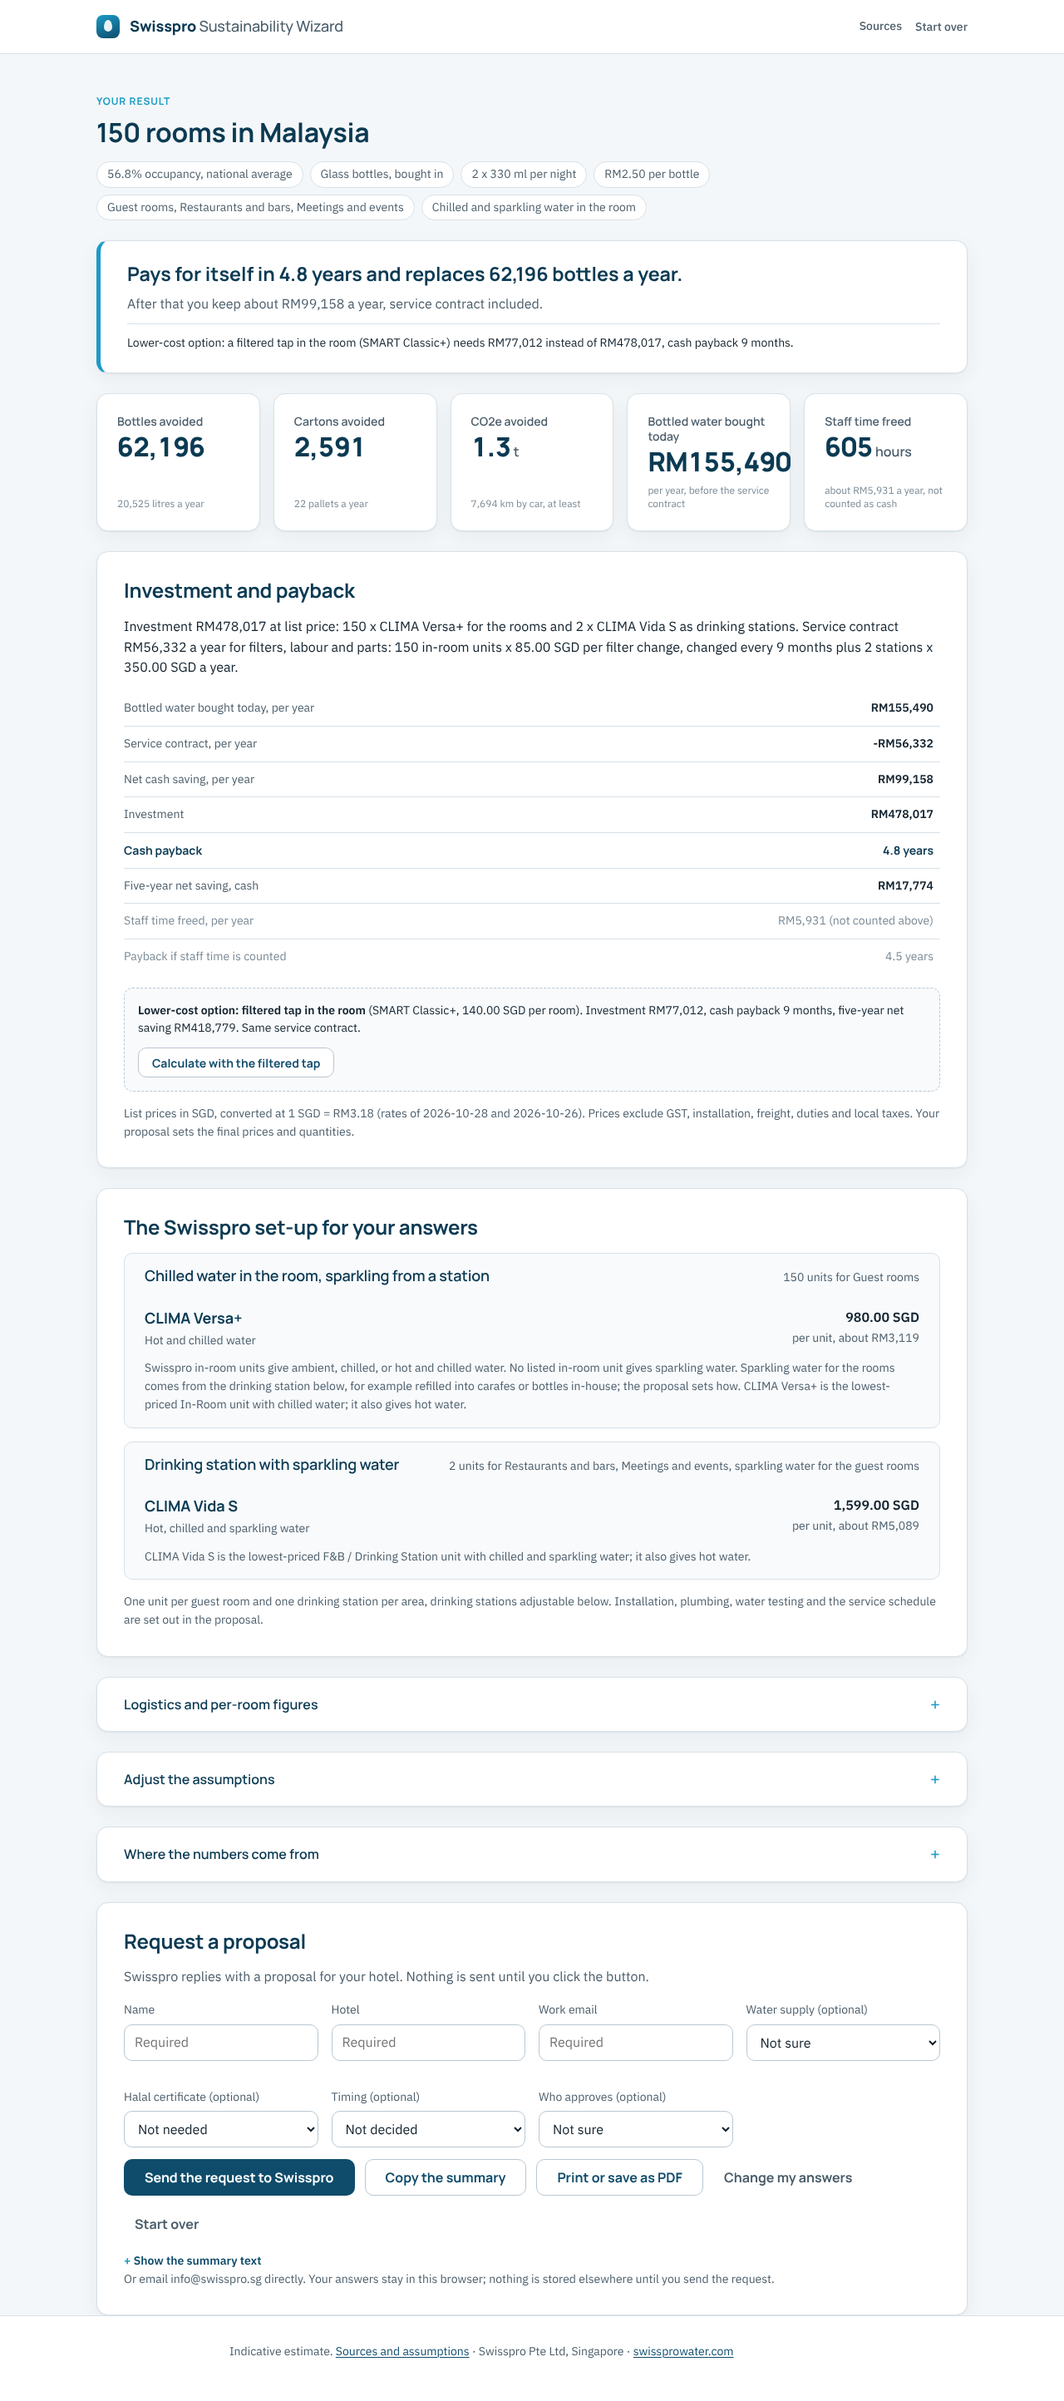
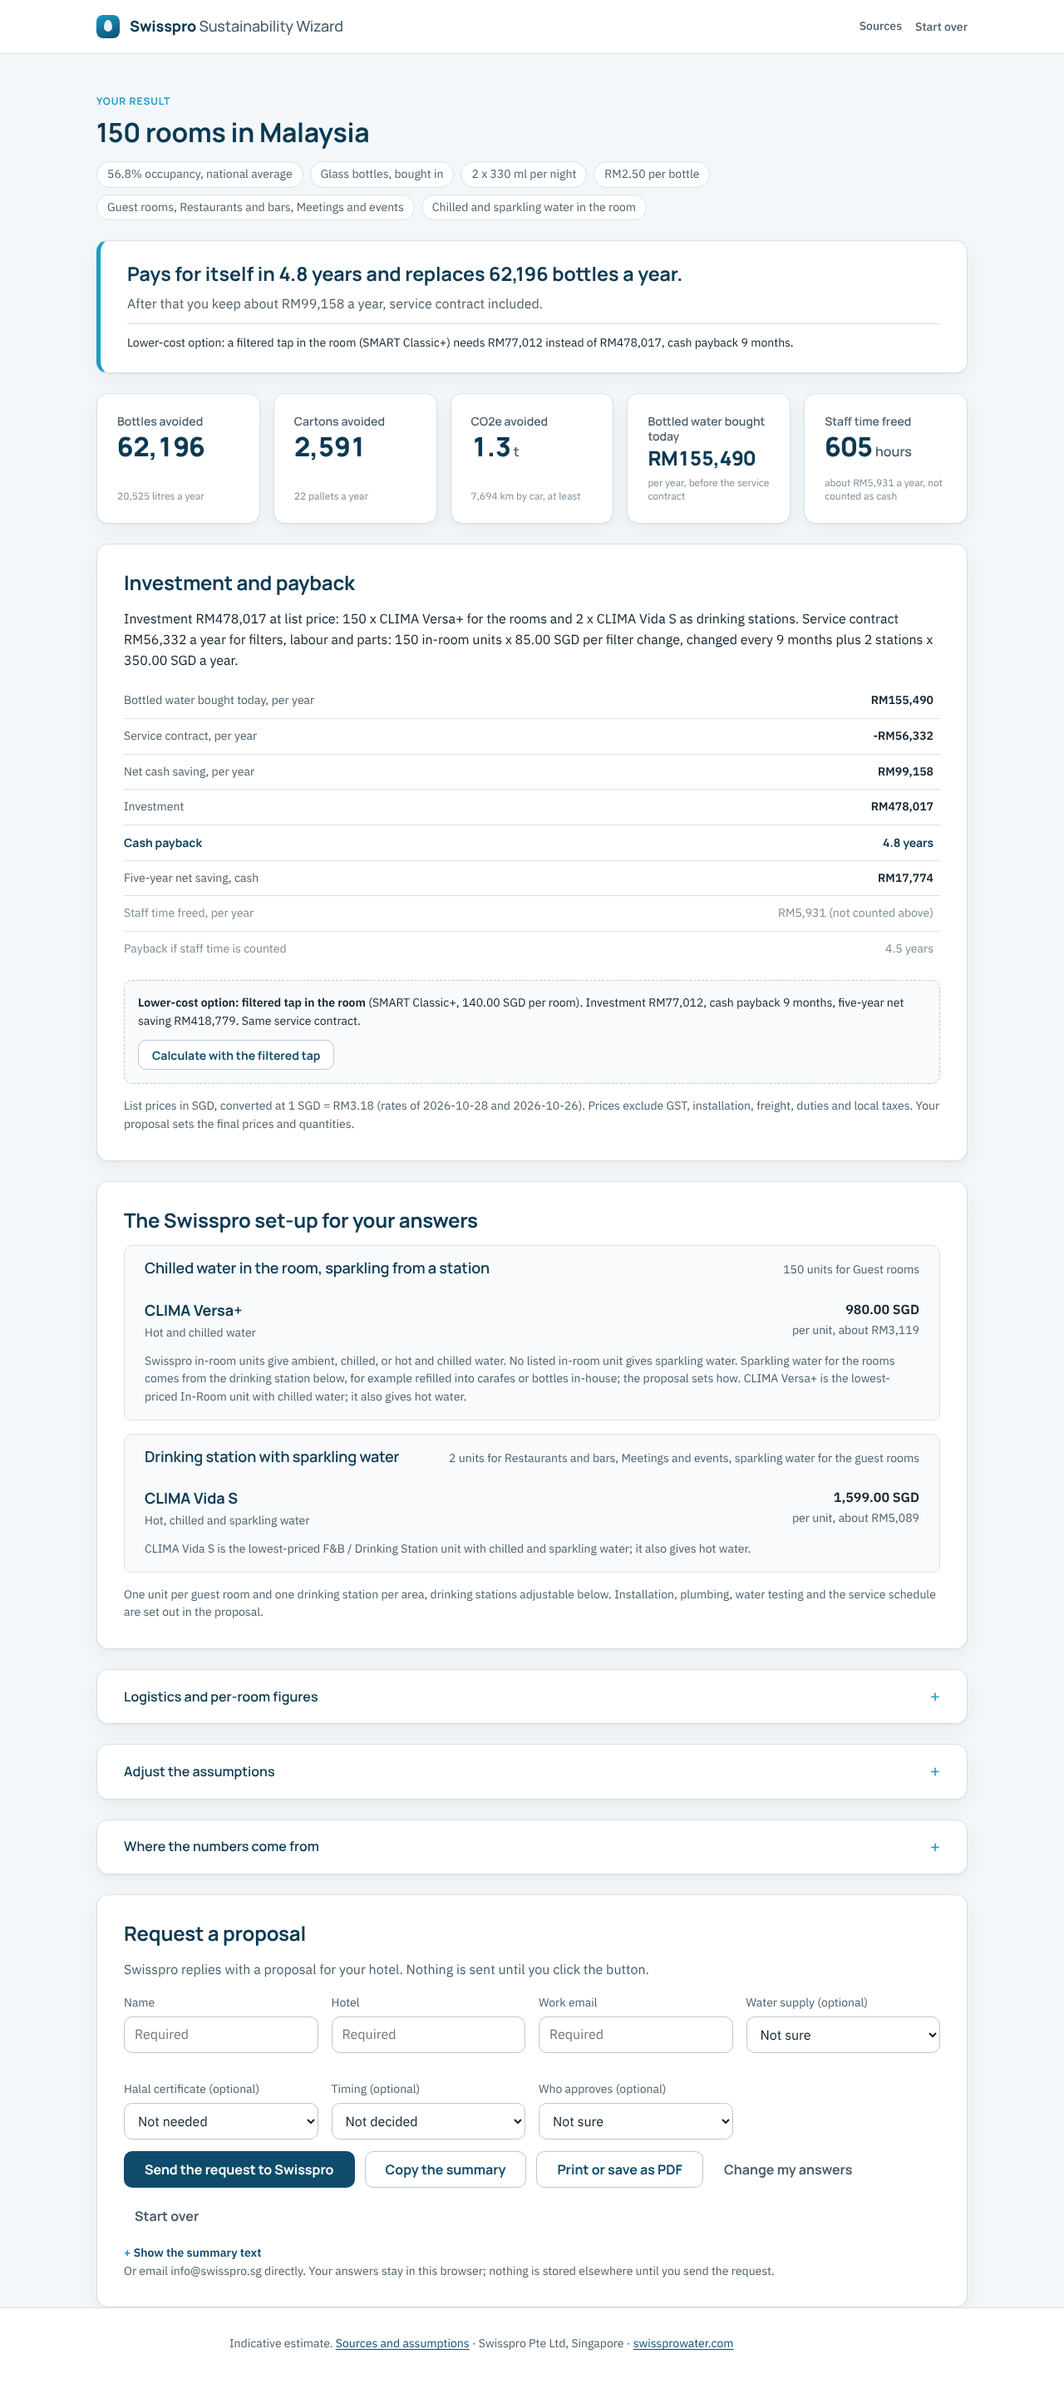
Tile width, products table widths, refill hint for sparkling; changelog
Claude-Session: https://claude.ai/code/session_01APodsUFWSb661S1TCdvVpy

diff --git a/artifact/sources.html b/artifact/sources.html
@@ -180,7 +180,7 @@ details.inline[open] > summary::before { content: "\2013 "; }
 .tile { display: grid; grid-template-rows: auto auto 1fr; align-content: start; gap: var(--s-1); background: var(--surface); border: 1px solid var(--line); border-radius: var(--radius-lg); padding: var(--s-5); box-shadow: var(--shadow); min-width: 0; }
 .tile .label { font-family: var(--font-display); font-weight: 600; font-size: var(--fs-sm); color: var(--ink-2); line-height: 1.3; }
 .tile .value { font-family: var(--font-display); font-size: var(--fs-2xl); font-weight: 800; color: var(--brand-700); line-height: 1.1; font-variant-numeric: tabular-nums; letter-spacing: -0.02em; white-space: nowrap; }
-.tile .value-long { font-size: 1.45rem; }
+.tile .value-long { font-size: 1.5rem; }
 .tile .unit { font-size: var(--fs-md); font-weight: 600; color: var(--ink-2); letter-spacing: 0; }
 .tile .sub { font-size: var(--fs-xs); color: var(--ink-3); line-height: 1.35; align-self: end; padding-top: var(--s-1); }
 .tile .basis { display: flex; flex-wrap: wrap; gap: var(--s-1); align-self: end; padding-top: var(--s-3); }
@@ -237,6 +237,9 @@ details.fine summary { font-weight: 600; }
 .factor blockquote { margin: var(--s-2) 0; padding-left: var(--s-3); border-left: 3px solid var(--accent-200); color: var(--ink-2); font-size: var(--fs-sm); }
 .factor p { margin-top: var(--s-2); }
 .card table.kv th, .card table.kv td { font-size: var(--fs-sm); white-space: normal; padding-right: 8px; }
+table.products th:first-child { width: 28%; }
+table.products td:nth-child(2) { width: 26%; }
+table.products td:nth-child(3) { width: 30%; }
 
 /* phone */
 @media (max-width: 640px) {
@@ -499,7 +502,7 @@ details.fine summary { font-weight: 600; }
 
     var pl = PL.pricelist, cur = pl.currency.value, months = pl.servicing.changeIntervalMonths.value;
     h = '<h2>Swisspro products and prices</h2><p class="small">Products and prices come from the Hospitality section of the Swisspro price list dated ' + esc(pl.source.dated) + '. Prices are in ' + esc(cur) + ', exclude GST, installation, freight, duties and local taxes, and are converted to your currency with the exchange rates above. The wizard plans one in-room unit per guest room and one drinking station per other area and picks the lowest-priced unit of the right section that gives the water you asked for.</p>';
-    h += '<table class="kv"><tr><th style="text-align:left">Section</th><th style="text-align:left">Unit</th><th style="text-align:left">Water</th><th>Price (' + esc(cur) + ')</th></tr>';
+    h += '<table class="kv products"><tr><th style="text-align:left">Section</th><th style="text-align:left">Unit</th><th style="text-align:left">Water</th><th>Price (' + esc(cur) + ')</th></tr>';
     pl.items.forEach(function (it) { h += '<tr><th>' + esc(PL.AREAS[it.area]) + '</th><td style="text-align:left">' + esc(it.label.replace(/\s*\(.*\)$/, '')) + '</td><td style="text-align:left;font-weight:400">' + (it.temps.length ? esc(it.temps.map(function (t) { return { ambient: 'ambient', cold: 'chilled', hot: 'hot', sparkling: 'sparkling' }[t]; }).join(', ')) : 'as per proposal') + (it.mount === 'tap' ? ', filtered tap' : '') + '</td><td>' + it.price.toLocaleString('en-US', { minimumFractionDigits: 2 }) + '</td></tr>'; });
     h += '</table>';
     h += '<h3 style="margin-top:24px">Service contract</h3><p class="small">In-room units: comprehensive replacement with labour and change of parts, ' + PL.byId(pl.servicing.inRoom, 'sv_ir_comprehensive').price.toFixed(2) + ' ' + esc(cur) + ' per filter change. The wizard assumes a filter change every ' + months + ' months, which gives ' + PL.inRoomServicePerYear('perChange', months).toFixed(2) + ' ' + esc(cur) + ' per unit and year; the interval and the price basis can be changed under "Adjust the assumptions" on the result page. Drinking stations: quarterly three-stage replacement, ' + PL.stationServicePerYear().toFixed(2) + ' ' + esc(cur) + ' per station and year.</p>';
@@ -566,7 +569,7 @@ details.fine summary { font-weight: 600; }
 
     var pl = PL.pricelist, cur = pl.currency.value, months = pl.servicing.changeIntervalMonths.value;
     h = '<h2>Swisspro products and prices</h2><p class="small">Products and prices come from the Hospitality section of the Swisspro price list dated ' + esc(pl.source.dated) + '. Prices are in ' + esc(cur) + ', exclude GST, installation, freight, duties and local taxes, and are converted to your currency with the exchange rates above. The wizard plans one in-room unit per guest room and one drinking station per other area and picks the lowest-priced unit of the right section that gives the water you asked for.</p>';
-    h += '<table class="kv"><tr><th style="text-align:left">Section</th><th style="text-align:left">Unit</th><th style="text-align:left">Water</th><th>Price (' + esc(cur) + ')</th></tr>';
+    h += '<table class="kv products"><tr><th style="text-align:left">Section</th><th style="text-align:left">Unit</th><th style="text-align:left">Water</th><th>Price (' + esc(cur) + ')</th></tr>';
     pl.items.forEach(function (it) { h += '<tr><th>' + esc(PL.AREAS[it.area]) + '</th><td style="text-align:left">' + esc(it.label.replace(/\s*\(.*\)$/, '')) + '</td><td style="text-align:left;font-weight:400">' + (it.temps.length ? esc(it.temps.map(function (t) { return { ambient: 'ambient', cold: 'chilled', hot: 'hot', sparkling: 'sparkling' }[t]; }).join(', ')) : 'as per proposal') + (it.mount === 'tap' ? ', filtered tap' : '') + '</td><td>' + it.price.toLocaleString('en-US', { minimumFractionDigits: 2 }) + '</td></tr>'; });
     h += '</table>';
     h += '<h3 style="margin-top:24px">Service contract</h3><p class="small">In-room units: comprehensive replacement with labour and change of parts, ' + PL.byId(pl.servicing.inRoom, 'sv_ir_comprehensive').price.toFixed(2) + ' ' + esc(cur) + ' per filter change. The wizard assumes a filter change every ' + months + ' months, which gives ' + PL.inRoomServicePerYear('perChange', months).toFixed(2) + ' ' + esc(cur) + ' per unit and year; the interval and the price basis can be changed under "Adjust the assumptions" on the result page. Drinking stations: quarterly three-stage replacement, ' + PL.stationServicePerYear().toFixed(2) + ' ' + esc(cur) + ' per station and year.</p>';
@@ -736,7 +739,7 @@ details.fine summary { font-weight: 600; }
 
     var pl = PL.pricelist, cur = pl.currency.value, months = pl.servicing.changeIntervalMonths.value;
     h = '<h2>Swisspro products and prices</h2><p class="small">Products and prices come from the Hospitality section of the Swisspro price list dated ' + esc(pl.source.dated) + '. Prices are in ' + esc(cur) + ', exclude GST, installation, freight, duties and local taxes, and are converted to your currency with the exchange rates above. The wizard plans one in-room unit per guest room and one drinking station per other area and picks the lowest-priced unit of the right section that gives the water you asked for.</p>';
-    h += '<table class="kv"><tr><th style="text-align:left">Section</th><th style="text-align:left">Unit</th><th style="text-align:left">Water</th><th>Price (' + esc(cur) + ')</th></tr>';
+    h += '<table class="kv products"><tr><th style="text-align:left">Section</th><th style="text-align:left">Unit</th><th style="text-align:left">Water</th><th>Price (' + esc(cur) + ')</th></tr>';
     pl.items.forEach(function (it) { h += '<tr><th>' + esc(PL.AREAS[it.area]) + '</th><td style="text-align:left">' + esc(it.label.replace(/\s*\(.*\)$/, '')) + '</td><td style="text-align:left;font-weight:400">' + (it.temps.length ? esc(it.temps.map(function (t) { return { ambient: 'ambient', cold: 'chilled', hot: 'hot', sparkling: 'sparkling' }[t]; }).join(', ')) : 'as per proposal') + (it.mount === 'tap' ? ', filtered tap' : '') + '</td><td>' + it.price.toLocaleString('en-US', { minimumFractionDigits: 2 }) + '</td></tr>'; });
     h += '</table>';
     h += '<h3 style="margin-top:24px">Service contract</h3><p class="small">In-room units: comprehensive replacement with labour and change of parts, ' + PL.byId(pl.servicing.inRoom, 'sv_ir_comprehensive').price.toFixed(2) + ' ' + esc(cur) + ' per filter change. The wizard assumes a filter change every ' + months + ' months, which gives ' + PL.inRoomServicePerYear('perChange', months).toFixed(2) + ' ' + esc(cur) + ' per unit and year; the interval and the price basis can be changed under "Adjust the assumptions" on the result page. Drinking stations: quarterly three-stage replacement, ' + PL.stationServicePerYear().toFixed(2) + ' ' + esc(cur) + ' per station and year.</p>';

diff --git a/artifact/wizard.html b/artifact/wizard.html
@@ -176,7 +176,7 @@ details.inline[open] > summary::before { content: "\2013 "; }
 .tile { display: grid; grid-template-rows: auto auto 1fr; align-content: start; gap: var(--s-1); background: var(--surface); border: 1px solid var(--line); border-radius: var(--radius-lg); padding: var(--s-5); box-shadow: var(--shadow); min-width: 0; }
 .tile .label { font-family: var(--font-display); font-weight: 600; font-size: var(--fs-sm); color: var(--ink-2); line-height: 1.3; }
 .tile .value { font-family: var(--font-display); font-size: var(--fs-2xl); font-weight: 800; color: var(--brand-700); line-height: 1.1; font-variant-numeric: tabular-nums; letter-spacing: -0.02em; white-space: nowrap; }
-.tile .value-long { font-size: 1.45rem; }
+.tile .value-long { font-size: 1.5rem; }
 .tile .unit { font-size: var(--fs-md); font-weight: 600; color: var(--ink-2); letter-spacing: 0; }
 .tile .sub { font-size: var(--fs-xs); color: var(--ink-3); line-height: 1.35; align-self: end; padding-top: var(--s-1); }
 .tile .basis { display: flex; flex-wrap: wrap; gap: var(--s-1); align-self: end; padding-top: var(--s-3); }
@@ -233,6 +233,9 @@ details.fine summary { font-weight: 600; }
 .factor blockquote { margin: var(--s-2) 0; padding-left: var(--s-3); border-left: 3px solid var(--accent-200); color: var(--ink-2); font-size: var(--fs-sm); }
 .factor p { margin-top: var(--s-2); }
 .card table.kv th, .card table.kv td { font-size: var(--fs-sm); white-space: normal; padding-right: 8px; }
+table.products th:first-child { width: 28%; }
+table.products td:nth-child(2) { width: 26%; }
+table.products td:nth-child(3) { width: 30%; }
 
 /* phone */
 @media (max-width: 640px) {
@@ -1352,7 +1355,7 @@ details.fine summary { font-weight: 600; }
 
     var tiles = el('div', { class: 'tiles' });
     function tile(label, value, unit, sub) {
-      return el('div', { class: 'tile' }, el('div', { class: 'label', text: label }), el('div', { class: 'value' + (String(value).length > 9 ? ' value-long' : ''), text: value }, unit ? el('span', { class: 'unit', text: ' ' + unit }) : null), el('div', { class: 'sub', text: sub || '' }));
+      return el('div', { class: 'tile' }, el('div', { class: 'label', text: label }), el('div', { class: 'value' + (String(value).length >= 9 ? ' value-long' : ''), text: value }, unit ? el('span', { class: 'unit', text: ' ' + unit }) : null), el('div', { class: 'sub', text: sub || '' }));
     }
     tiles.appendChild(tile('Bottles avoided', fmt.int(c.bottles.total), null, fmt.int(c.env.litres) + ' litres a year'));
     if (c.env.packagingKg != null) tiles.appendChild(tile('Plastic avoided', fmt.int(c.env.packagingKg), 'kg', fmt.dec(c.env.bottleWeightG, 1) + ' g per bottle'));
@@ -1511,7 +1514,7 @@ details.fine summary { font-weight: 600; }
     var g3 = group('Staff time');
     field(g3, 'minutesPerRoomPerDay', 'Minutes per room and day, bottles', inp.minutesPerRoomPerDay, 0.5);
     field(g3, 'minutesPerCarton', 'Minutes per carton', inp.minutesPerCarton, 0.5);
-    field(g3, 'newMinutesPerRoomPerDay', 'Minutes per room and day, filtered', inp.newMinutesPerRoomPerDay, 0.5, null, 'Refilling carafes, for example');
+    field(g3, 'newMinutesPerRoomPerDay', 'Minutes per room and day, filtered', inp.newMinutesPerRoomPerDay, 0.5, null, state.answers.temps === 'sparkling' ? 'Not counted yet; add time for refilling sparkling water' : 'Refilling carafes, for example');
     field(g3, 'wageHourly', 'Hourly labour cost (' + inp.currency + ')', Math.round(inp.wageHourly * 100) / 100, 0.1, null, ctx.n.provenance.wageHourly.kind === 'user' ? 'Your figure' : (ctx.n.country.wageMonthly.label || 'Minimum wage') + ', adjust for your property');
     field(g3, 'stockWeeks', 'Weeks of stock on site', inp.stockWeeks, 1);
     card.appendChild(el('div', { class: 'actions' }, el('button', { type: 'button', class: 'btn btn-ghost', onclick: function () { state.overrides = {}; save(); renderResults(); } }, 'Reset to the defaults')));

diff --git a/sources.html b/sources.html
@@ -66,7 +66,7 @@
 
     var pl = PL.pricelist, cur = pl.currency.value, months = pl.servicing.changeIntervalMonths.value;
     h = '<h2>Swisspro products and prices</h2><p class="small">Products and prices come from the Hospitality section of the Swisspro price list dated ' + esc(pl.source.dated) + '. Prices are in ' + esc(cur) + ', exclude GST, installation, freight, duties and local taxes, and are converted to your currency with the exchange rates above. The wizard plans one in-room unit per guest room and one drinking station per other area and picks the lowest-priced unit of the right section that gives the water you asked for.</p>';
-    h += '<table class="kv"><tr><th style="text-align:left">Section</th><th style="text-align:left">Unit</th><th style="text-align:left">Water</th><th>Price (' + esc(cur) + ')</th></tr>';
+    h += '<table class="kv products"><tr><th style="text-align:left">Section</th><th style="text-align:left">Unit</th><th style="text-align:left">Water</th><th>Price (' + esc(cur) + ')</th></tr>';
     pl.items.forEach(function (it) { h += '<tr><th>' + esc(PL.AREAS[it.area]) + '</th><td style="text-align:left">' + esc(it.label.replace(/\s*\(.*\)$/, '')) + '</td><td style="text-align:left;font-weight:400">' + (it.temps.length ? esc(it.temps.map(function (t) { return { ambient: 'ambient', cold: 'chilled', hot: 'hot', sparkling: 'sparkling' }[t]; }).join(', ')) : 'as per proposal') + (it.mount === 'tap' ? ', filtered tap' : '') + '</td><td>' + it.price.toLocaleString('en-US', { minimumFractionDigits: 2 }) + '</td></tr>'; });
     h += '</table>';
     h += '<h3 style="margin-top:24px">Service contract</h3><p class="small">In-room units: comprehensive replacement with labour and change of parts, ' + PL.byId(pl.servicing.inRoom, 'sv_ir_comprehensive').price.toFixed(2) + ' ' + esc(cur) + ' per filter change. The wizard assumes a filter change every ' + months + ' months, which gives ' + PL.inRoomServicePerYear('perChange', months).toFixed(2) + ' ' + esc(cur) + ' per unit and year; the interval and the price basis can be changed under "Adjust the assumptions" on the result page. Drinking stations: quarterly three-stage replacement, ' + PL.stationServicePerYear().toFixed(2) + ' ' + esc(cur) + ' per station and year.</p>';

diff --git a/js/app.js b/js/app.js
@@ -284,7 +284,7 @@
 
     var tiles = el('div', { class: 'tiles' });
     function tile(label, value, unit, sub) {
-      return el('div', { class: 'tile' }, el('div', { class: 'label', text: label }), el('div', { class: 'value' + (String(value).length > 9 ? ' value-long' : ''), text: value }, unit ? el('span', { class: 'unit', text: ' ' + unit }) : null), el('div', { class: 'sub', text: sub || '' }));
+      return el('div', { class: 'tile' }, el('div', { class: 'label', text: label }), el('div', { class: 'value' + (String(value).length >= 9 ? ' value-long' : ''), text: value }, unit ? el('span', { class: 'unit', text: ' ' + unit }) : null), el('div', { class: 'sub', text: sub || '' }));
     }
     tiles.appendChild(tile('Bottles avoided', fmt.int(c.bottles.total), null, fmt.int(c.env.litres) + ' litres a year'));
     if (c.env.packagingKg != null) tiles.appendChild(tile('Plastic avoided', fmt.int(c.env.packagingKg), 'kg', fmt.dec(c.env.bottleWeightG, 1) + ' g per bottle'));
@@ -443,7 +443,7 @@
     var g3 = group('Staff time');
     field(g3, 'minutesPerRoomPerDay', 'Minutes per room and day, bottles', inp.minutesPerRoomPerDay, 0.5);
     field(g3, 'minutesPerCarton', 'Minutes per carton', inp.minutesPerCarton, 0.5);
-    field(g3, 'newMinutesPerRoomPerDay', 'Minutes per room and day, filtered', inp.newMinutesPerRoomPerDay, 0.5, null, 'Refilling carafes, for example');
+    field(g3, 'newMinutesPerRoomPerDay', 'Minutes per room and day, filtered', inp.newMinutesPerRoomPerDay, 0.5, null, state.answers.temps === 'sparkling' ? 'Not counted yet; add time for refilling sparkling water' : 'Refilling carafes, for example');
     field(g3, 'wageHourly', 'Hourly labour cost (' + inp.currency + ')', Math.round(inp.wageHourly * 100) / 100, 0.1, null, ctx.n.provenance.wageHourly.kind === 'user' ? 'Your figure' : (ctx.n.country.wageMonthly.label || 'Minimum wage') + ', adjust for your property');
     field(g3, 'stockWeeks', 'Weeks of stock on site', inp.stockWeeks, 1);
     card.appendChild(el('div', { class: 'actions' }, el('button', { type: 'button', class: 'btn btn-ghost', onclick: function () { state.overrides = {}; save(); renderResults(); } }, 'Reset to the defaults')));

diff --git a/styles.css b/styles.css
@@ -173,7 +173,7 @@ details.inline[open] > summary::before { content: "\2013 "; }
 .tile { display: grid; grid-template-rows: auto auto 1fr; align-content: start; gap: var(--s-1); background: var(--surface); border: 1px solid var(--line); border-radius: var(--radius-lg); padding: var(--s-5); box-shadow: var(--shadow); min-width: 0; }
 .tile .label { font-family: var(--font-display); font-weight: 600; font-size: var(--fs-sm); color: var(--ink-2); line-height: 1.3; }
 .tile .value { font-family: var(--font-display); font-size: var(--fs-2xl); font-weight: 800; color: var(--brand-700); line-height: 1.1; font-variant-numeric: tabular-nums; letter-spacing: -0.02em; white-space: nowrap; }
-.tile .value-long { font-size: 1.45rem; }
+.tile .value-long { font-size: 1.5rem; }
 .tile .unit { font-size: var(--fs-md); font-weight: 600; color: var(--ink-2); letter-spacing: 0; }
 .tile .sub { font-size: var(--fs-xs); color: var(--ink-3); line-height: 1.35; align-self: end; padding-top: var(--s-1); }
 .tile .basis { display: flex; flex-wrap: wrap; gap: var(--s-1); align-self: end; padding-top: var(--s-3); }
@@ -230,6 +230,9 @@ details.fine summary { font-weight: 600; }
 .factor blockquote { margin: var(--s-2) 0; padding-left: var(--s-3); border-left: 3px solid var(--accent-200); color: var(--ink-2); font-size: var(--fs-sm); }
 .factor p { margin-top: var(--s-2); }
 .card table.kv th, .card table.kv td { font-size: var(--fs-sm); white-space: normal; padding-right: 8px; }
+table.products th:first-child { width: 28%; }
+table.products td:nth-child(2) { width: 26%; }
+table.products td:nth-child(3) { width: 30%; }
 
 /* phone */
 @media (max-width: 640px) {
